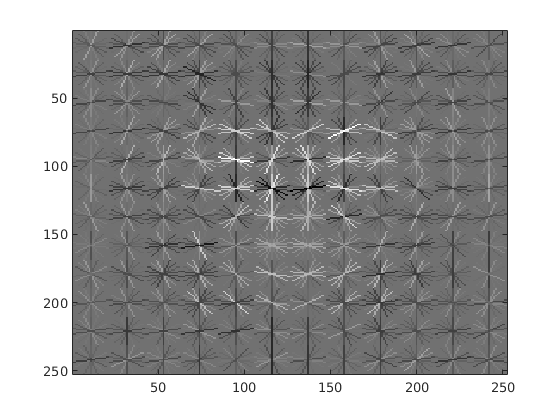
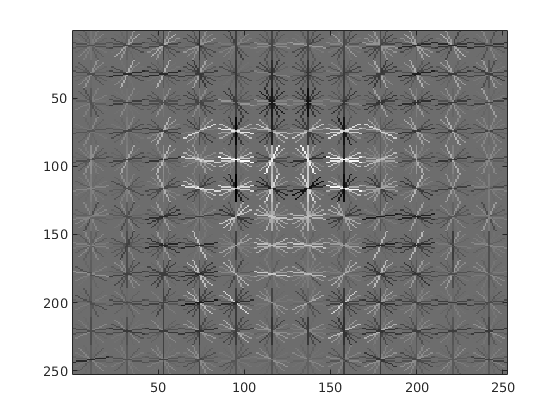
1. Turn on all extra features and using all face image and 30000 negative features 2.fixed bug in get_positive features 3. added detection result in html 4. Display only one result for extra features

diff --git a/html/index.html b/html/index.html
@@ -221,6 +221,27 @@ features_neg = features_neg(1:initial_num_samples, :);
     
 </code></pre>
 
+<table width="100%">
+            <tbody><tr>
+            <tr>
+                <td>
+                    <img src="hog_template_6.png" width="90%">
+                    <figcaption>Cell Size = 6</figcaption>
+                    
+                </td>
+                <td>
+                    <img src="hog_template_4.png" width="90%">
+                    <figcaption>Cell Size = 4</figcaption>
+                    
+                </td>
+                <td>
+                    <img src="hog_template_3.png" width="90%">
+                    <figcaption>Cell Size = 3</figcaption>
+                    
+                </td>
+            </tr>
+ </tbody></table>
+
 
 <h3>Part 3: Training SVM</h3>
 <p> 	We train the svm classifier using the feature extracted in previous parts</p>
@@ -268,47 +289,30 @@ end
             <tbody><tr>
                 <td>
                     <img src="average_precision_6.png" width="90%">
-                    
-                    
-                </td>
-                <td>
-                    <img src="average_precision_4.png" width="90%">
-                    
-                    
-                </td>
-                <td>
-                    <img src="average_precision_3_aug.png" width="90%">
-                    
-                    
-                </td>
-            </tr>
-            <tr>
-                <td>
-                    <img src="hog_template_6.png" width="90%">
                     <figcaption>Cell Size = 6</figcaption>
                     
                 </td>
                 <td>
-                    <img src="hog_template_4.png" width="90%">
+                    <img src="average_precision_4.png" width="90%">
                     <figcaption>Cell Size = 4</figcaption>
                     
                 </td>
                 <td>
-                    <img src="hog_template_3.png" width="90%">
+                    <img src="average_precision_3.png" width="90%">
                     <figcaption>Cell Size = 3</figcaption>
                     
                 </td>
             </tr>
+            
  </tbody></table>
 
 <h2>EXTRA CREDITS</h2>
 <h3>Augmentation of traning data</h3>
-We do mirror of image by flipping and rotate the image a little bit. The result increase alot to 92.3%.
+We do mirror of image by flipping and rotate the image a little bit. The result increased a little bit.
 <pre><code>
-num_images = int16(length(image_files))*0.3;
-num_images = num_images*3
+num_images = int16(length(image_files));
 fprintf('\nget_positive_features use %d images\n',num_images)
-features_pos = zeros(num_images, (feature_params.template_size / feature_params.hog_cell_size)^2 * 31);
+features_pos = zeros(num_images*3, (feature_params.template_size / feature_params.hog_cell_size)^2 * 31);
 
 for i = 1:num_images
     img = imread(strcat(train_path_pos, '/', image_files(i).name));
@@ -333,21 +337,6 @@ for i = 1:num_images
     features_pos(3*i,:) = reshape(feat_rot, 1,  []);
 end
 </code></pre>
-
-<table width="100%">
-            <tbody><tr>
-                <td>
-                    <img src="average_precision_3_aug.png" width="90%">
-                    <figcaption>Cell Size = 3</figcaption>
-                    
-                </td>
-                <td>
-                    <img src="hog_template_3.png" width="90%">
-                    <figcaption>Cell Size = 3</figcaption>
-                    
-                </td>
-            </tr>
- </tbody></table>
 
 <h3>Hard Negative Mining</h3>
 <p> We perform the hard negative mining in out project by modifying the run_detector.m to return features from the negative image dataset. We set the threshold to 0.5 after doing some experimentation with different values. Any segment of image that exceeds the threshold is used to further train the classifier as a hard negative. We then combine the originally obtained negatives with the hard negatives and build an even stronger classifier. As suggested we did not run non-max suppression while mining hard-negatives</p>
@@ -411,6 +400,86 @@ end
         </tr>
  	</tbody>
  </table>
+<!--
+<h3>Results of hard negative mining </h3>
+<p>With hard negative mining, we didn't find the precision being improved significantly. In some cases, we even saw a decrease in precision. We however did see in some images that false negatives were reduced! See the images below for coparison.</p>
+-->
+
+This the result after adding implementation fo extra credit
+<table width="100%">
+            <tbody><tr>
+                <td>
+                    <img src="average_precision_3_aug_hard.png" width="90%">
+                    <figcaption>Cell Size = 3</figcaption>
+                    
+                </td>
+                <td>
+                    <img src="hog_template_3_aug_hard.png" width="90%">
+                    <figcaption>Cell Size = 3</figcaption>
+                    
+                </td>
+            </tr>
+ </tbody></table>
+
+
+<h3> Final Results</h3>
+Previously, only 30% of face image and 10000 negative samples are used for seek of speeding up debug process. Finally, we use all images for getting positive feature and increase the negative feature sameple to 30000. The resulted precision increase a lot to  92.3% which should be our best so far but it takes almost an hour to complete the computation on our computer.
+
+<table width="100%">
+            <tbody><tr>
+                <td>
+                    <img src="average_precision_3_aug.png" width="90%">
+                    <figcaption>Cell Size = 3</figcaption>
+                    
+                </td>
+                <td>
+                    <img src="hog_template_3.png" width="90%">
+                    <figcaption>Cell Size = 3</figcaption>
+                    
+                </td>
+            </tr>
+ </tbody></table>
+<center>
+
+Example of detection on the test set.
+
+<table width="100%">
+            <tbody><tr>
+                <td>
+                    <img src="arsenal_3_aug_hard.png" width="100%">
+                    
+                </td>
+                <td>
+                    <img src="Brazil_3_aug_hard.png" width="100%">
+                    
+                </td>
+            </tr>
+            <tr>
+                <td>
+                    <img src="Ecuador_3_aug_hard.png" width="100%">
+                    
+                </td>
+                <td>
+                    <img src="Germany_3_aug_hard.png" width="100%">
+                    
+                </td>
+
+            </tr>
+                <tr>
+                <td>
+                    <img src="Colombia_3_aug_hard.png" width="100%">
+                    
+                </td>
+                <td>
+                    <img src="England_3_aug_hard.png" width="100%">
+                    
+                </td>
+            </tr>
+
+ </tbody></table>
+<center>
+</center>
+
 
 </body>
 </html>

diff --git a/code/get_positive_features.m b/code/get_positive_features.m
@@ -27,18 +27,21 @@ function features_pos = get_positive_features(train_path_pos, feature_params)
 %  http://www.vlfeat.org/matlab/vl_hog.html  (API)
 %  http://www.vlfeat.org/overview/hog.html   (Tutorial)
 % rgb2gray
-enable_augment = true
+enable_augment = true;
 fprintf(train_path_pos)
 image_files = dir( fullfile( train_path_pos, '*.jpg') ); %Caltech Faces stored as .jpg
 
-num_images = int16(length(image_files))*0.3;
-if enable_augment
-    num_images = num_images*3
-end
+num_images = int16(length(image_files));
+
 fprintf('\nget_positive_features use %d images\n',num_images)
 % placeholder to be deleted
 %feature_params = struct('template_size', 36, 'hog_cell_size', 6);
-features_pos = zeros(num_images, (feature_params.template_size / feature_params.hog_cell_size)^2 * 31);
+if enable_augment
+    fprintf('with augmentation\n')
+    features_pos = zeros(num_images*3, (feature_params.template_size / feature_params.hog_cell_size)^2 * 31);
+else
+    features_pos = zeros(num_images*2, (feature_params.template_size / feature_params.hog_cell_size)^2 * 31);
+end
 
 for i = 1:num_images
     img = imread(strcat(train_path_pos, '/', image_files(i).name));
@@ -62,7 +65,10 @@ for i = 1:num_images
         feat_rot = vl_hog(img_rot, feature_params.hog_cell_size);
         features_pos(3*i,:) = reshape(feat_rot, 1,  []);
     else
-        features_pos(i,:) = reshaped_feat;
+        features_pos(2*i,:) = reshaped_feat;
+        
+        feat_flip = vl_hog(flipdim(img, 2), feature_params.hog_cell_size);
+        features_pos(2*i-1,:) = reshape(feat_flip, 1, []);
     end
 end
 

diff --git a/code/proj4.m b/code/proj4.m
@@ -62,7 +62,7 @@ feature_params = struct('template_size', 36, 'hog_cell_size', 3);
 
 features_pos = get_positive_features(train_path_pos, feature_params);
 
-num_negative_examples = 10000; %Higher will work strictly better, but you should start with 10000 for debugging
+num_negative_examples = 30000; %Higher will work strictly better, but you should start with 10000 for debugging
 features_neg = get_random_negative_features( non_face_scn_path, feature_params, num_negative_examples);
 
     

diff --git a/code/non_max_supr_bbox.m b/code/non_max_supr_bbox.m
@@ -93,7 +93,6 @@ end
 reverse_map(ind) = 1:num_detections;
 is_valid_bbox = is_valid_bbox(reverse_map);
 
-if(verbose)
-    fprintf(' non-max suppression: %d detections to %d final bounding boxes\n', num_detections, sum(is_valid_bbox));
-end
+fprintf(' non-max suppression: %d detections to %d final bounding boxes\n', num_detections, sum(is_valid_bbox));
+
 
